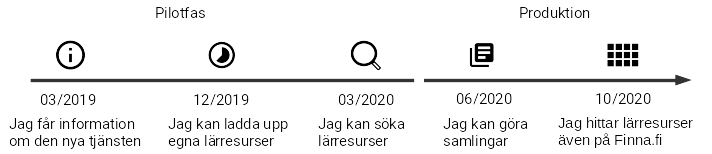
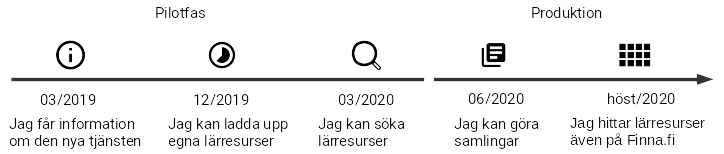
Updated text and images

diff --git a/src/app/views/mainView/main-view.component.html b/src/app/views/mainView/main-view.component.html
@@ -16,36 +16,36 @@
       <div class="col">
         <ng-container [ngSwitch]="lang">
           <ng-container *ngSwitchDefault>
-            <p>Avointen oppimateriaalien palvelussa voit hakea, löytää, koota ja tallentaa omia avoimia oppimateriaaleja kaikilta koulutusasteilta. Vaiheittain vuonna 2019 ja 2020 käyttöön tulevaa palvelua ja sieltä löytyviä oppimateriaaleja voivat käyttää niin opettajat, oppijat kuin aivan kaikki kansalaiset. Aoe.fi-sivustolta saat tietoa palvelun kehittämisestä ja sen etenemisestä. Palvelua kehittävät Opetus- ja kulttuuriministeriö ja Opetushallitus ja sen kehitystä koordinoi CSC – Tieteen tietotekniikan keskus.</p>
+            <p>Avointen oppimateriaalien kirjastossa voit hakea, löytää, koota ja tallentaa omia avoimia oppimateriaaleja kaikilta koulutusasteilta. Vaiheittain vuonna 2019 ja 2020 käyttöön tulevaa palvelua ja sieltä löytyviä oppimateriaaleja voivat käyttää niin opettajat, oppijat kuin aivan kaikki kansalaiset. Aoe.fi-sivustolta saattietoa palvelun kehittämisestä ja sen etenemisestä. Palvelua kehittävät Opetus- ja kulttuuriministeriö ja Opetushallitus ja sen kehitystä koordinoi CSC &ndash; Tieteen tietotekniikan keskus.</p>
 
             <h3>Osallistu jakamiseen</h3>
-            <p>Avointen oppimateriaalien palveluun voi nyt tallentaa omia avoimia oppimateriaaleja aoe.fi-sivulta. Materiaalit ovat heti käytössäsi ja tulevat muille käyttäjille haettaviksi maaliskuussa 2020. Aloita jakaminen klikkaamalla kirjaudu sisään! Lue lisää <a [routerLink]="['/lisatietoa']">Lisätietoa</a>-sivulta.</p>
+            <p>Avointen oppimateriaalien kirjastoon voi nyt tallentaa omia avoimia oppimateriaaleja aoe.fi-sivulta. Materiaalit ovat heti sinun ja muiden käyttäjien käytössä. Aloita jakaminen klikkaamalla kirjaudu sisään! Lue lisää <a routerLink="/lisatietoa">Lisätietoa</a>-sivulta.</p>
 
             <h3>Miten palvelun kehitys etenee?</h3>
-            <p>Avointen oppimateriaalien palvelu on vielä kehityksessä ja vuonna 2019 ja 2020 pilotoimme palvelun eri toiminnallisuuksia. Voit nyt tallentaa oppimateriaalejasi ja maaliskuussa 2020 materiaaleja voi kätevämmin löytää palvelusta. Voit odottaa palvelua seuraavan aikataulun mukaisesti:</p>
-            <img src="assets/img/aoe_polku.png" class="img-fluid">
+            <p>Avointen oppimateriaalien kirjasto on vielä kehityksessä ja vuonna 2019 ja 2020 pilotoimme palvelun eri toiminnallisuuksia. Voit nyt tallentaa ja löytää oppimateriaaleja palvelusta. Voit odottaa palvelua seuraavan aikataulun mukaisesti:</p>
+            <img src="assets/img/aoe_polku.png" class="img-fluid" alt="Pilottivaihe: 3/2019 Saan tietoa tulevasta palvelusta, 12/2019 Voin tallentaaoppimateriaalejani, 03/2020 Voin hakea oppimateriaaleja. Tuotanto: 06/2020 Voin tehdäoppimateriaalikokoelmia, syksy/2020 Löydän avoimia oppimateriaaleja myös Finna.fistä.">
           </ng-container>
 
           <ng-container *ngSwitchCase="'en'">
-            <p>In the Open Educational Resources (OER) Service, you can search for, find, compile and save your own open educational resources from all levels of education. Gradually introduced from 2019 to 2020, the service and its OER are available for use by teachers, learners and everyone else in the country. Visit aoe.fi to find out more about the development of the service and keep up to date with its progress. The service is being developed by the Ministry of Education and Culture and the Finnish National Agency for Education, and its development is coordinated by CSC – IT Center for Science.</p>
+            <p>In the Library of Open Educational Resources (OER), you can search for, find, compile and save your own open educational resources from all levels of education. Gradually introduced from 2019 to 2020, the service and its OER are available for use by teachers, learners and everyone else in the country. Visit aoe.fi to find out more about the development of the service and keep up to date with its progress. The service is being developed by the Ministry of Education and Culture and the Finnish National Agency for Education, and its development is coordinated by CSC &ndash; IT Center for Science.</p>
 
             <h3>Start sharing</h3>
-            <p>You can now save your own OER from the aoe.fi website in the Open Educational Resources Service. Other users will be able to search for the materials in March 2020, but they are immediately available to you. Start sharing by logging in! Visit the <a [routerLink]="['/lisatietoa']">Further information</a> page for more info.</p>
+            <p>You can now save your own OER from the aoe.fi website in the Library of Open Educational Resources (OER). Other users can find your materials through the search and they are immediately available to you. Start sharing by logging in! Visit the <a routerLink="/lisatietoa">Further information</a> page for more info.</p>
 
             <h3>What can I expect in the future?</h3>
-            <p>The Open Educational Resources Service is still under development, and we are piloting different aspects of the service in 2019 and 2020. You can now save your own open educational resources, and in March 2020, material in the service will be more easily accessible. You can expect new services in accordance with the following schedule:</p>
-            <img src="assets/img/aoe_path.png" class="img-fluid">
+            <p>The Library of Open Educational Resources is still under development, and we are piloting different aspects of the service in 2019 and 2020. You can expect new services in accordance with the following schedule:</p>
+            <img src="assets/img/aoe_path.png" class="img-fluid" alt="Piloting stage: 3/2019 I can find information on future services, 12/2019 I can save my own OER and 03/2020 I can search for OER. Production: 06/2020 I can compile my own OER, autumn/2020 I can also find OER on Finna.fi">
           </ng-container>
 
           <ng-container *ngSwitchCase="'sv'">
-            <p>I tjänsten för öppna lärresurser kan du söka, hitta, sammanställa och spara egna öppna lärresurser från alla utbildningsstadier. Tjänsten tas i bruk stegvis under 2019 och 2020 och materialet är tillgängligt för alla lärare, lärande och andra intresserade. På webbplatsen aoe.fi kan du läsa hur utvecklingen av tjänsten framskrider. Tjänsten utvecklas av Undervisnings- och kulturministeriet och Utbildningsstyrelsen och utvecklingen koordineras av CSC – Tieteen tietotekniikan keskus.</p>
+            <p>I biblioteket för öppna lärresurser kan du söka, hitta, sammanställa och spara egna öppna lärresurser från alla utbildningsstadier. Tjänsten tas i bruk stegvis under 2019 och 2020 och materialet är tillgängligt för alla lärare, lärande och andra intresserade. På webbplatsen aoe.fi kan du läsa hur utvecklingen av tjänsten framskrider. Tjänsten utvecklas av Undervisnings- och kulturministeriet och Utbildningsstyrelsen ochutvecklingen koordineras av CSC &ndash; Tieteen tietotekniikan keskus.</p>
 
             <h3>Delta i delandet</h3>
-            <p>Nu kan man spara egna öppna lärresurser i tjänsten via webbplatsen aoe.fi. Du kan använda materialet direkt och det blir sökbart för andra användare i mars 2020. Börja dela material genom att klicka på logga in! Läs mer på sidan <a [routerLink]="['/lisatietoa']">Vanliga frågor</a>.</p>
+            <p>Nu kan man spara egna öppna lärresurser i biblioteket via webbplatsen aoe.fi. Du och andra användare kananvända materialet direkt. Börja dela material genom att klicka på logga in! Läs mer på sidan <a routerLink="/lisatietoa">Vanliga frågor</a>.</p>
 
             <h3>Hur framskrider utvecklingen av tjänsten?</h3>
-            <p>Tjänsten för öppna lärresurser är ännu under utveckling och dess funktioner kommer att testas under 2019 och 2020. Du kan ladda upp dina lärresurser nu, och från och med mars 2020 går det lättare att hitta material i tjänsten. Du kan invänta tjänsten enligt följande tidtabell:</p>
-            <img src="assets/img/aoe_vag.png" class="img-fluid">
+            <p>Biblioteket för öppna lärresurser är ännu under utveckling och dess funktioner kommer att testas under 2019 och 2020. Du kan ladda upp dina lärresurser och hitta material i tjänsten nu. Du kan invänta tjänsten enligt följande tidtabell:</p>
+            <img src="assets/img/aoe_vag.png" class="img-fluid" alt="Pilotfas: 3/2019 Jag får information om den nya tjänsten, 12/2019 Jag kan ladda upp egna lärresurser, 03/2020 Jag kan söka lärresurser. Produktion: 06/2020 Jag kan göra samlingar av lärresurser, hösten 2020 Jag hittar öppna lärresurser även på Finna.fi">
           </ng-container>
         </ng-container>
       </div>
